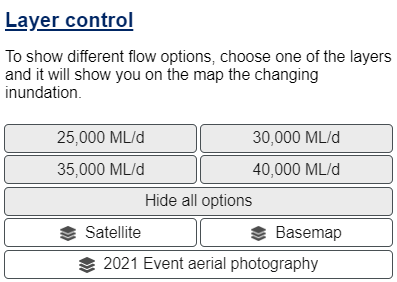
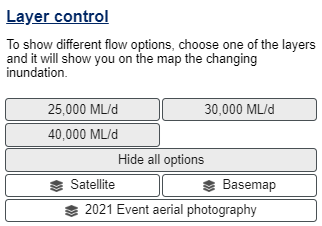
Removed 35k Option

Changed region(s): [[0.0, 0.4336, 0.9938, 0.9912], [0.0, 0.1549, 0.9938, 0.3717], [0.0, 0.031, 0.3416, 0.1239]]

diff --git a/v03/umur/app.js b/v03/umur/app.js
@@ -21,7 +21,7 @@ setTimeout(function () {
   // Attach layer events
   attach_layer_events("widget_button_1", "d25");
   attach_layer_events("widget_button_2", "d30");
-  attach_layer_events("widget_35", "d35");
+  //attach_layer_events("widget_35", "d35");
   attach_layer_events("widget_button_3", "d40");
   attach_layer_events("widget_button_5", "hide");
   // Attach basemap events
